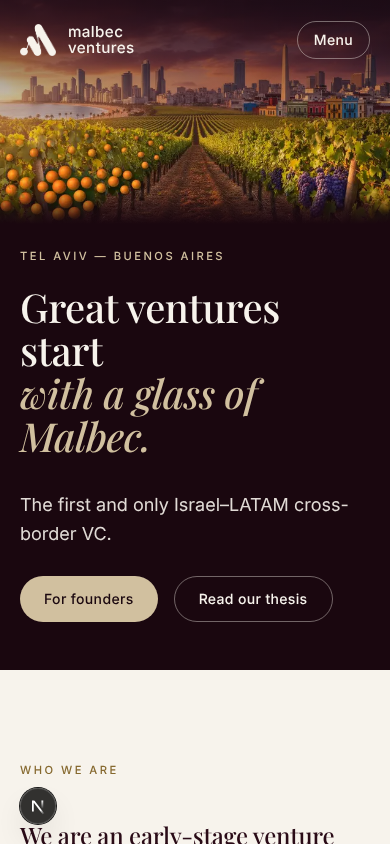
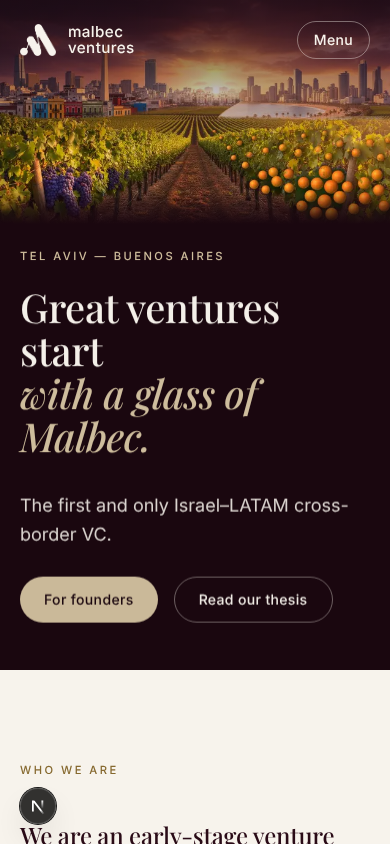
Swap the hero: Buenos Aires left, Tel Aviv right, the bay between
Re-compose the skyline band of the original photo so the sea and sunset
sit between the two cities, then deepen the grapes on the left and paint
the oranges on the right. Swap the photo captions to match.

Claude-Session: https://claude.ai/code/session_017sEAxSBjDhvBNjGJgMKkkY

diff --git a/apps/web/src/app/(public)/page.tsx b/apps/web/src/app/(public)/page.tsx
@@ -15,8 +15,8 @@ export default function Home() {
         <section className="bg-wine-950 text-cream">
           <div className="relative aspect-[1344/768] max-h-[64svh] min-h-[14rem] w-full overflow-hidden">
             <Image
-              src="/brand/hero-orange-grape.jpg"
-              alt="A field at sunset: orange trees on the left below the Tel Aviv shoreline, Malbec vines heavy with grapes on the right below the Buenos Aires skyline"
+              src="/brand/hero-orange-grape-v2.jpg"
+              alt="A field at sunset: Malbec vines heavy with grapes on the left below the Buenos Aires skyline, orange trees on the right below the Tel Aviv shoreline, and the sun setting over the bay between the two cities"
               fill
               priority
               sizes="100vw"
@@ -25,10 +25,10 @@ export default function Home() {
             <div className="absolute inset-x-0 top-0 h-36 bg-gradient-to-b from-wine-950/75 to-transparent" />
             <div className="absolute inset-x-0 bottom-0 h-8 bg-gradient-to-t sm:h-16 from-wine-950 to-transparent" />
             <p className="absolute bottom-5 left-5 hidden text-[0.65rem] uppercase tracking-[0.22em] text-cream/85 sm:left-8 sm:block lg:left-12">
-              Tel Aviv · the orange
+              Buenos Aires · the grape
             </p>
             <p className="absolute bottom-5 right-5 hidden text-[0.65rem] uppercase tracking-[0.22em] text-cream/85 sm:right-8 sm:block lg:right-12">
-              Buenos Aires · the grape
+              Tel Aviv · the orange
             </p>
           </div>
           <div className="page pb-12 pt-6 sm:pb-14 sm:pt-7">

diff --git a/packages/brand/scripts/make-hero.py b/packages/brand/scripts/make-hero.py
@@ -1,17 +1,23 @@
-"""Paint oranges into the Tel Aviv (left) side of the hero photo and deepen the Malbec grapes
-on the Buenos Aires (right) side.  Usage: python3 make-hero.py   (run from packages/brand)
+"""Build the hero image: Buenos Aires on the left with Malbec grapes below it, Tel Aviv on the right
+with orange trees below it, and the bay and sunset between the two cities.
+Usage: python3 scripts/make-hero.py   (run from packages/brand)
+
+Step 1 (rearrange.py) re-composes the skyline band of the original photo.
+Step 2 (this file) deepens the grapes on the left and paints oranges into the right-hand vines.
 
 The original photo (assets/hero.png) is never modified. Adjust ORANGES below and re-run.
 Requires Pillow and numpy.
 """
 import numpy as np
 from PIL import Image, ImageFilter
+from rearrange import rearrange
 
 SRC = "assets/hero.png"
-OUT = ["assets/hero-orange-grape.jpg", "../../apps/web/public/brand/hero-orange-grape.jpg"]
+OUT = ["assets/hero-orange-grape.jpg", "../../apps/web/public/brand/hero-orange-grape-v2.jpg"]
 rng = np.random.default_rng(11)
 
-# (x, y, radius) in source pixels: clusters in front, then fruit receding up the left-hand rows.
+# (x, y, radius) as laid out on the left of the original photo; mirrored to the right-hand
+# (Tel Aviv) side in main(). Clusters in front, then fruit receding up the rows.
 ORANGES = [
     (182, 606, 23), (226, 590, 24), (206, 640, 25), (254, 630, 23), (176, 676, 23), (228, 690, 25), (276, 672, 22),
     (300, 626, 21), (204, 734, 23), (258, 730, 22), (306, 706, 20), (150, 640, 20),
@@ -30,24 +36,25 @@ def smooth_noise(shape, sigma, seed):
     return (a - a.min()) / (a.max() - a.min() + 1e-6)
 
 def main():
-    src = Image.open(SRC).convert("RGB")
+    src = rearrange(Image.open(SRC).convert("RGB"))
     W, H = src.size
+    oranges = [(W - x, y, r) for (x, y, r) in ORANGES]
     S = np.asarray(src).astype(np.float32) / 255.0
     out = S.copy()
     hsv = np.asarray(src.convert("HSV")).astype(np.float32)
     hue, sat, val = hsv[..., 0], hsv[..., 1], hsv[..., 2]
     yy, xx = np.mgrid[0:H, 0:W].astype(np.float32)
 
-    # ---- right side: deepen the Malbec grapes (purple-blue, foreground only)
+    # ---- left side (Buenos Aires): deepen the Malbec grapes (purple-blue, foreground only)
     purple = ((hue > 150) & (hue < 220) & (sat > 55)).astype(np.float32)
-    right = purple * (xx > 700) * (yy > 520)
+    right = purple * (xx < 644) * (yy > 520)
     right = np.asarray(Image.fromarray((right * 255).astype(np.uint8)).filter(ImageFilter.GaussianBlur(2))).astype(np.float32) / 255
     g = out.mean(axis=2, keepdims=True)
     rich = np.clip(g + (out - g) * 1.6, 0, 1) * 0.88 + np.array([0.36, 0.07, 0.30]) * 0.12
     out = out * (1 - right[..., None]) + rich * right[..., None]
 
-    # ---- left side: turn the existing grape bunches into shaded foliage so no purple shows through
-    left = purple * (xx < 680) * (yy > 420)
+    # ---- right side (Tel Aviv): turn the grape bunches into shaded foliage so no purple shows through
+    left = purple * (xx > 664) * (yy > 420)
     left = np.asarray(Image.fromarray((left * 255).astype(np.uint8)).filter(ImageFilter.MaxFilter(7)).filter(ImageFilter.GaussianBlur(3))).astype(np.float32) / 255
     # blur first so the bunch shape disappears, then recolour as leaves in shade
     soft = np.asarray(Image.fromarray((np.clip(out, 0, 1) * 255).astype(np.uint8)).filter(ImageFilter.GaussianBlur(7))).astype(np.float32) / 255
@@ -56,16 +63,16 @@ def main():
     foliage = np.clip(lum * np.array([0.52, 0.74, 0.26]) * (0.78 + 0.5 * mottle) + np.array([0.03, 0.05, 0.01]), 0, 1)
     out = out * (1 - left[..., None]) + foliage * left[..., None]
 
-    # ---- oranges: lit spheres, light from the low sun at upper-left
+    # ---- oranges: lit spheres; the sun now sets at the centre, up and to the left of the fruit
     Lv = np.array([-0.62, -0.50, 0.60]); Lv /= np.linalg.norm(Lv)
     peel = smooth_noise((H, W), 0.7, 3)
     occl = np.zeros((H, W), np.float32)      # soft shadows cast on leaves and on neighbouring fruit
     alpha = np.zeros((H, W), np.float32)
     col = np.zeros((H, W, 3), np.float32)
-    for (cx, cy, r) in sorted(ORANGES, key=lambda o: o[2]):   # far first, near on top
+    for (cx, cy, r) in sorted(oranges, key=lambda o: o[2]):   # far first, near on top
         d2 = (xx - (cx + r * 0.35)) ** 2 + (yy - (cy + r * 0.45)) ** 2
         occl = np.maximum(occl, np.exp(-d2 / (2 * (r * 0.95) ** 2)) * 0.55)
-    for (cx, cy, r) in sorted(ORANGES, key=lambda o: o[2]):
+    for (cx, cy, r) in sorted(oranges, key=lambda o: o[2]):
         dx, dy = (xx - cx) / r, (yy - cy) / r
         rr = dx * dx + dy * dy
         inside = rr <= 1.0

diff --git a/packages/brand/scripts/rearrange.py b/packages/brand/scripts/rearrange.py
@@ -1,0 +1,64 @@
+"""Rearrange the hero photo: Buenos Aires left, sea and sunset in the middle, Tel Aviv right.
+Imported by make-hero.py. Tunable constants at the top."""
+import numpy as np
+from PIL import Image, ImageFilter
+
+X0 = 744         # where the Tel Aviv slice starts (its bay faces the centre from here)
+GLOW = 430       # how far the sunset glow spreads left from the join
+Y0 = 404         # bottom of the rearranged band (top of the foreground foliage)
+FEATHER_Y = 16
+
+def _smooth_rows(a, sigma):
+    img = Image.fromarray(np.clip(a * 64, 0, 255).astype(np.uint8)[:, None, :].repeat(3, axis=1))
+    return np.asarray(img.filter(ImageFilter.GaussianBlur(sigma))).astype(np.float32)[:, 1, :] / 64
+
+def rearrange(src: Image.Image) -> Image.Image:
+    W, H = src.size
+    O = np.asarray(src).astype(np.float32)
+    M = O[:, ::-1].copy()                # mirrored: Buenos Aires left, Tel Aviv right, sun far right
+    w = W - X0
+    xx = np.arange(W, dtype=np.float32)[None, :]
+    yy = np.arange(H, dtype=np.float32)[:, None]
+
+    # 1. Let the sunset glow spread left of the join: per-row colour gain that matches the mirrored
+    #    side to the Tel Aviv slice at the join and fades out over GLOW pixels.
+    t_edge = O[:, 0:28].mean(axis=1)                    # colour of the Tel Aviv slice at its inner edge
+    m_edge = M[:, X0 - 28:X0].mean(axis=1) + 1e-3
+    gain = _smooth_rows(np.clip(t_edge / m_edge, 0.7, 3.2), 14)          # (H, 3)
+    ramp = np.clip((xx - (X0 - GLOW)) / GLOW, 0, 1)
+    ramp = ramp ** 2.2                                                     # mostly near the join
+    band = np.clip(((Y0 - 30) - yy) / 60, 0, 1)                            # fade the effect out above the foliage
+    g = 1 + (gain[:, None, :] - 1) * (ramp * band)[..., None]
+    L = np.clip(M * g, 0, 255)
+    # a soft additive bloom around the sun so the join reads as light, not as an edge
+    sun_y = 318
+    bloom = np.exp(-(((xx - X0) / 210) ** 2 + ((yy - sun_y) / 120) ** 2)) * band
+    L = np.clip(L + bloom[..., None] * np.array([70, 44, 12]), 0, 255)
+
+    # 2. Tel Aviv slice, un-mirrored. In the sky it cross-fades in over a wide band (clouds are
+    #    forgiving); at the water it meets the land along a curved shoreline with a strip of sand.
+    R = L.copy()
+    R[:, X0:] = O[:, :w]
+    REACH = 190
+    ext = L.copy()
+    ext[:, X0:X0 + REACH] = L[:, X0 - 1:X0 - REACH - 1:-1]        # land/sky continued to the right
+    SEA_TOP = 344
+    sky = np.clip((SEA_TOP - yy) / 14, 0, 1)                       # 1 in the sky, 0 at the water
+    depth = np.clip((Y0 - yy) / (Y0 - SEA_TOP), 0, 1)              # 1 at the horizon, 0 at the foliage
+    shore = X0 + 8 + 86 * depth ** 1.4                             # shoreline recedes up and to the right
+    centre = sky * (X0 + 60) + (1 - sky) * shore
+    width = sky * 170 + (1 - sky) * 7
+    ax = np.clip((xx - (centre - width / 2)) / width, 0, 1)
+    ax = ax * ax * (3 - 2 * ax)
+    blend = ext * (1 - ax[..., None]) + R * ax[..., None]
+    sand = np.exp(-((xx - shore) / 3.2) ** 2) * (1 - sky) * np.clip((yy - SEA_TOP) / 6, 0, 1)
+    blend = blend * (1 - 0.8 * sand[..., None]) + np.array([226, 182, 128]) * 0.8 * sand[..., None]
+
+    # 3. keep the mirrored foreground below the band
+    ay = np.clip(((Y0 + FEATHER_Y / 2) - yy) / FEATHER_Y, 0, 1)[..., None]
+    out = M * (1 - ay) + blend * ay
+    return Image.fromarray(np.clip(out, 0, 255).astype(np.uint8))
+
+if __name__ == "__main__":
+    import sys
+    rearrange(Image.open("assets/hero.png").convert("RGB")).save(sys.argv[1], quality=92)

diff --git a/docs/open-items.md b/docs/open-items.md
@@ -27,4 +27,4 @@ Sources for content: "ARG VC Ecosystem as an Export Story" (ASHRA, 18.8.26) and 
 ## Design (decided Nov 2026)
 
 - Public site: Estate (cream, wine, gold, Playfair Display). LP site and admin: Gallery (white, Malbec red, navy, Inter Tight). Set in `apps/web/src/app/globals.css`; the LP look is applied in `src/app/lp/layout.tsx`.
-- Hero image: oranges painted into the Tel Aviv side and the grapes deepened on the Buenos Aires side by `packages/brand/scripts/make-hero.py`. The original is `packages/brand/assets/hero.png`. This is an edited image, not a new photograph; if a true photograph is wanted, generate one with: "Golden-hour panorama, orange grove heavy with fruit in the left foreground below the Tel Aviv shoreline and skyline, Malbec vineyard with dark purple grape clusters in the right foreground below the Buenos Aires skyline with the Obelisk and colourful La Boca houses, a dirt path between them leading to the horizon, dramatic purple and orange sunset sky, photorealistic, 16:9" and replace `apps/web/public/brand/hero-orange-grape.jpg`.
+- Hero image: Buenos Aires on the left with Malbec grapes below, Tel Aviv on the right with orange trees below, the bay and sunset between them. Built from the original photo (`packages/brand/assets/hero.png`) by `packages/brand/scripts/make-hero.py` (which uses `rearrange.py`). This is an edited image, not a new photograph; if a true photograph is wanted, generate one with: "Golden-hour panorama: on the left the Buenos Aires skyline with the Obelisk and colourful La Boca houses above a Malbec vineyard with dark purple grape clusters in the foreground; on the right the Tel Aviv skyline along a beach above an orange grove heavy with fruit in the foreground; between the two cities a small bay with the sun setting over the water; a dirt path through the fields leading to the horizon; dramatic purple and orange sky; photorealistic, 16:9" and replace `apps/web/public/brand/hero-orange-grape-v2.jpg`.
